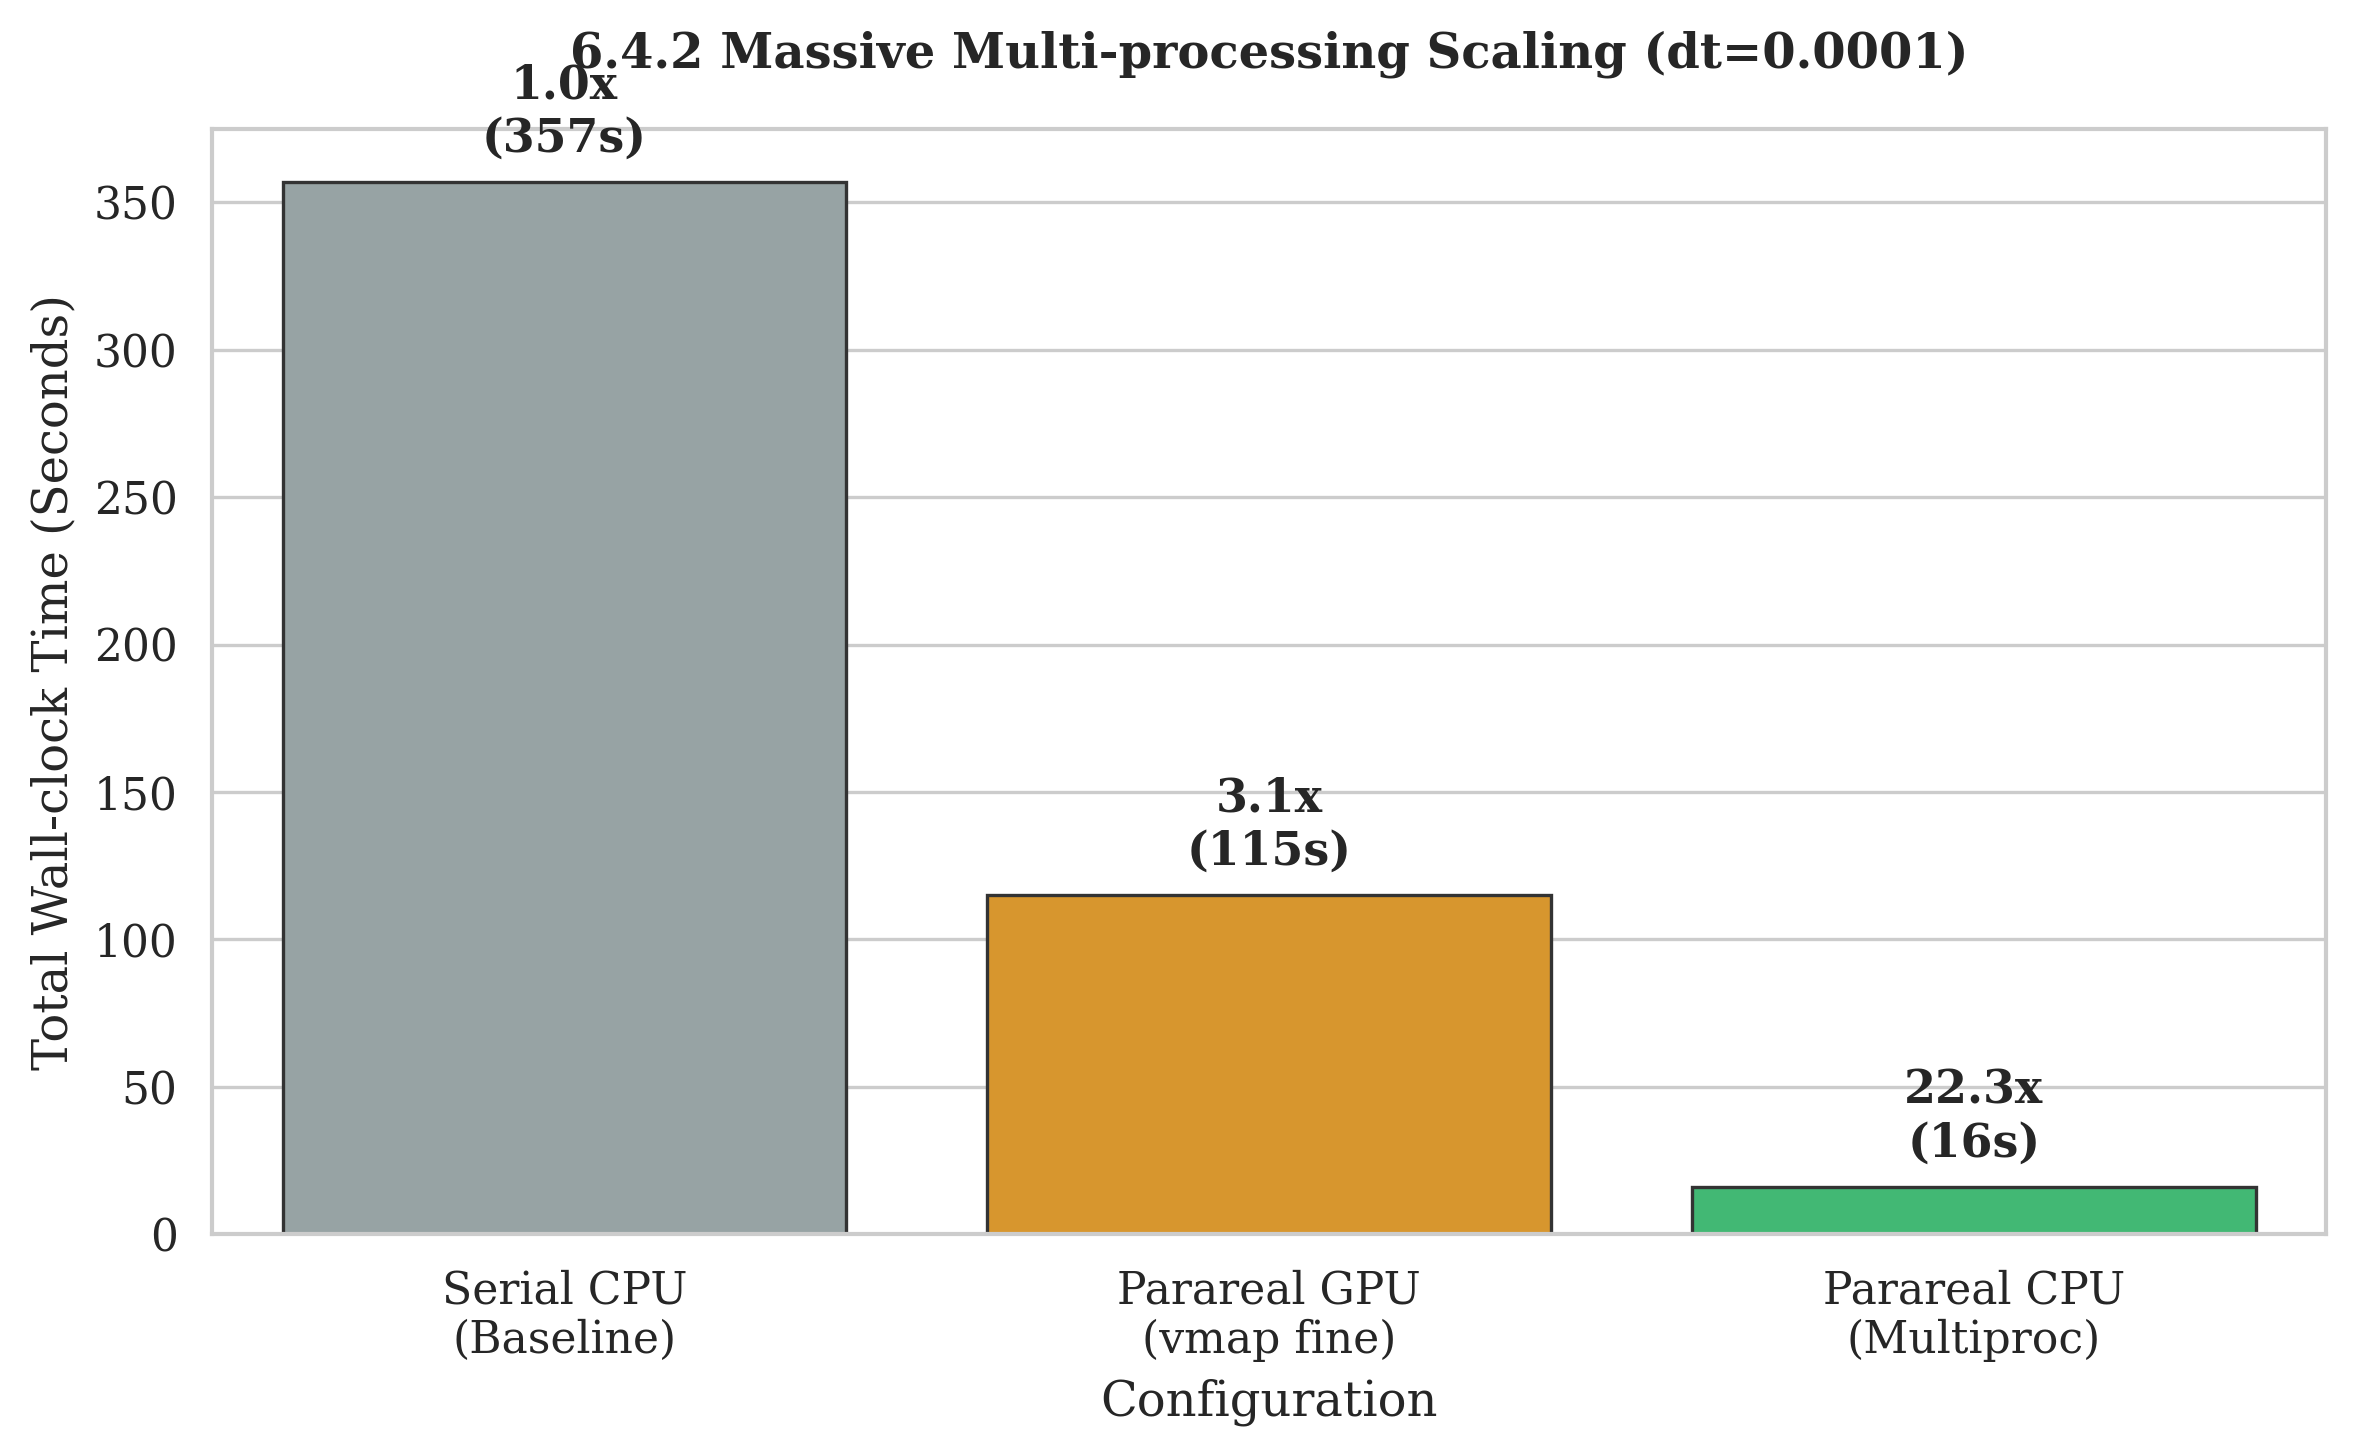
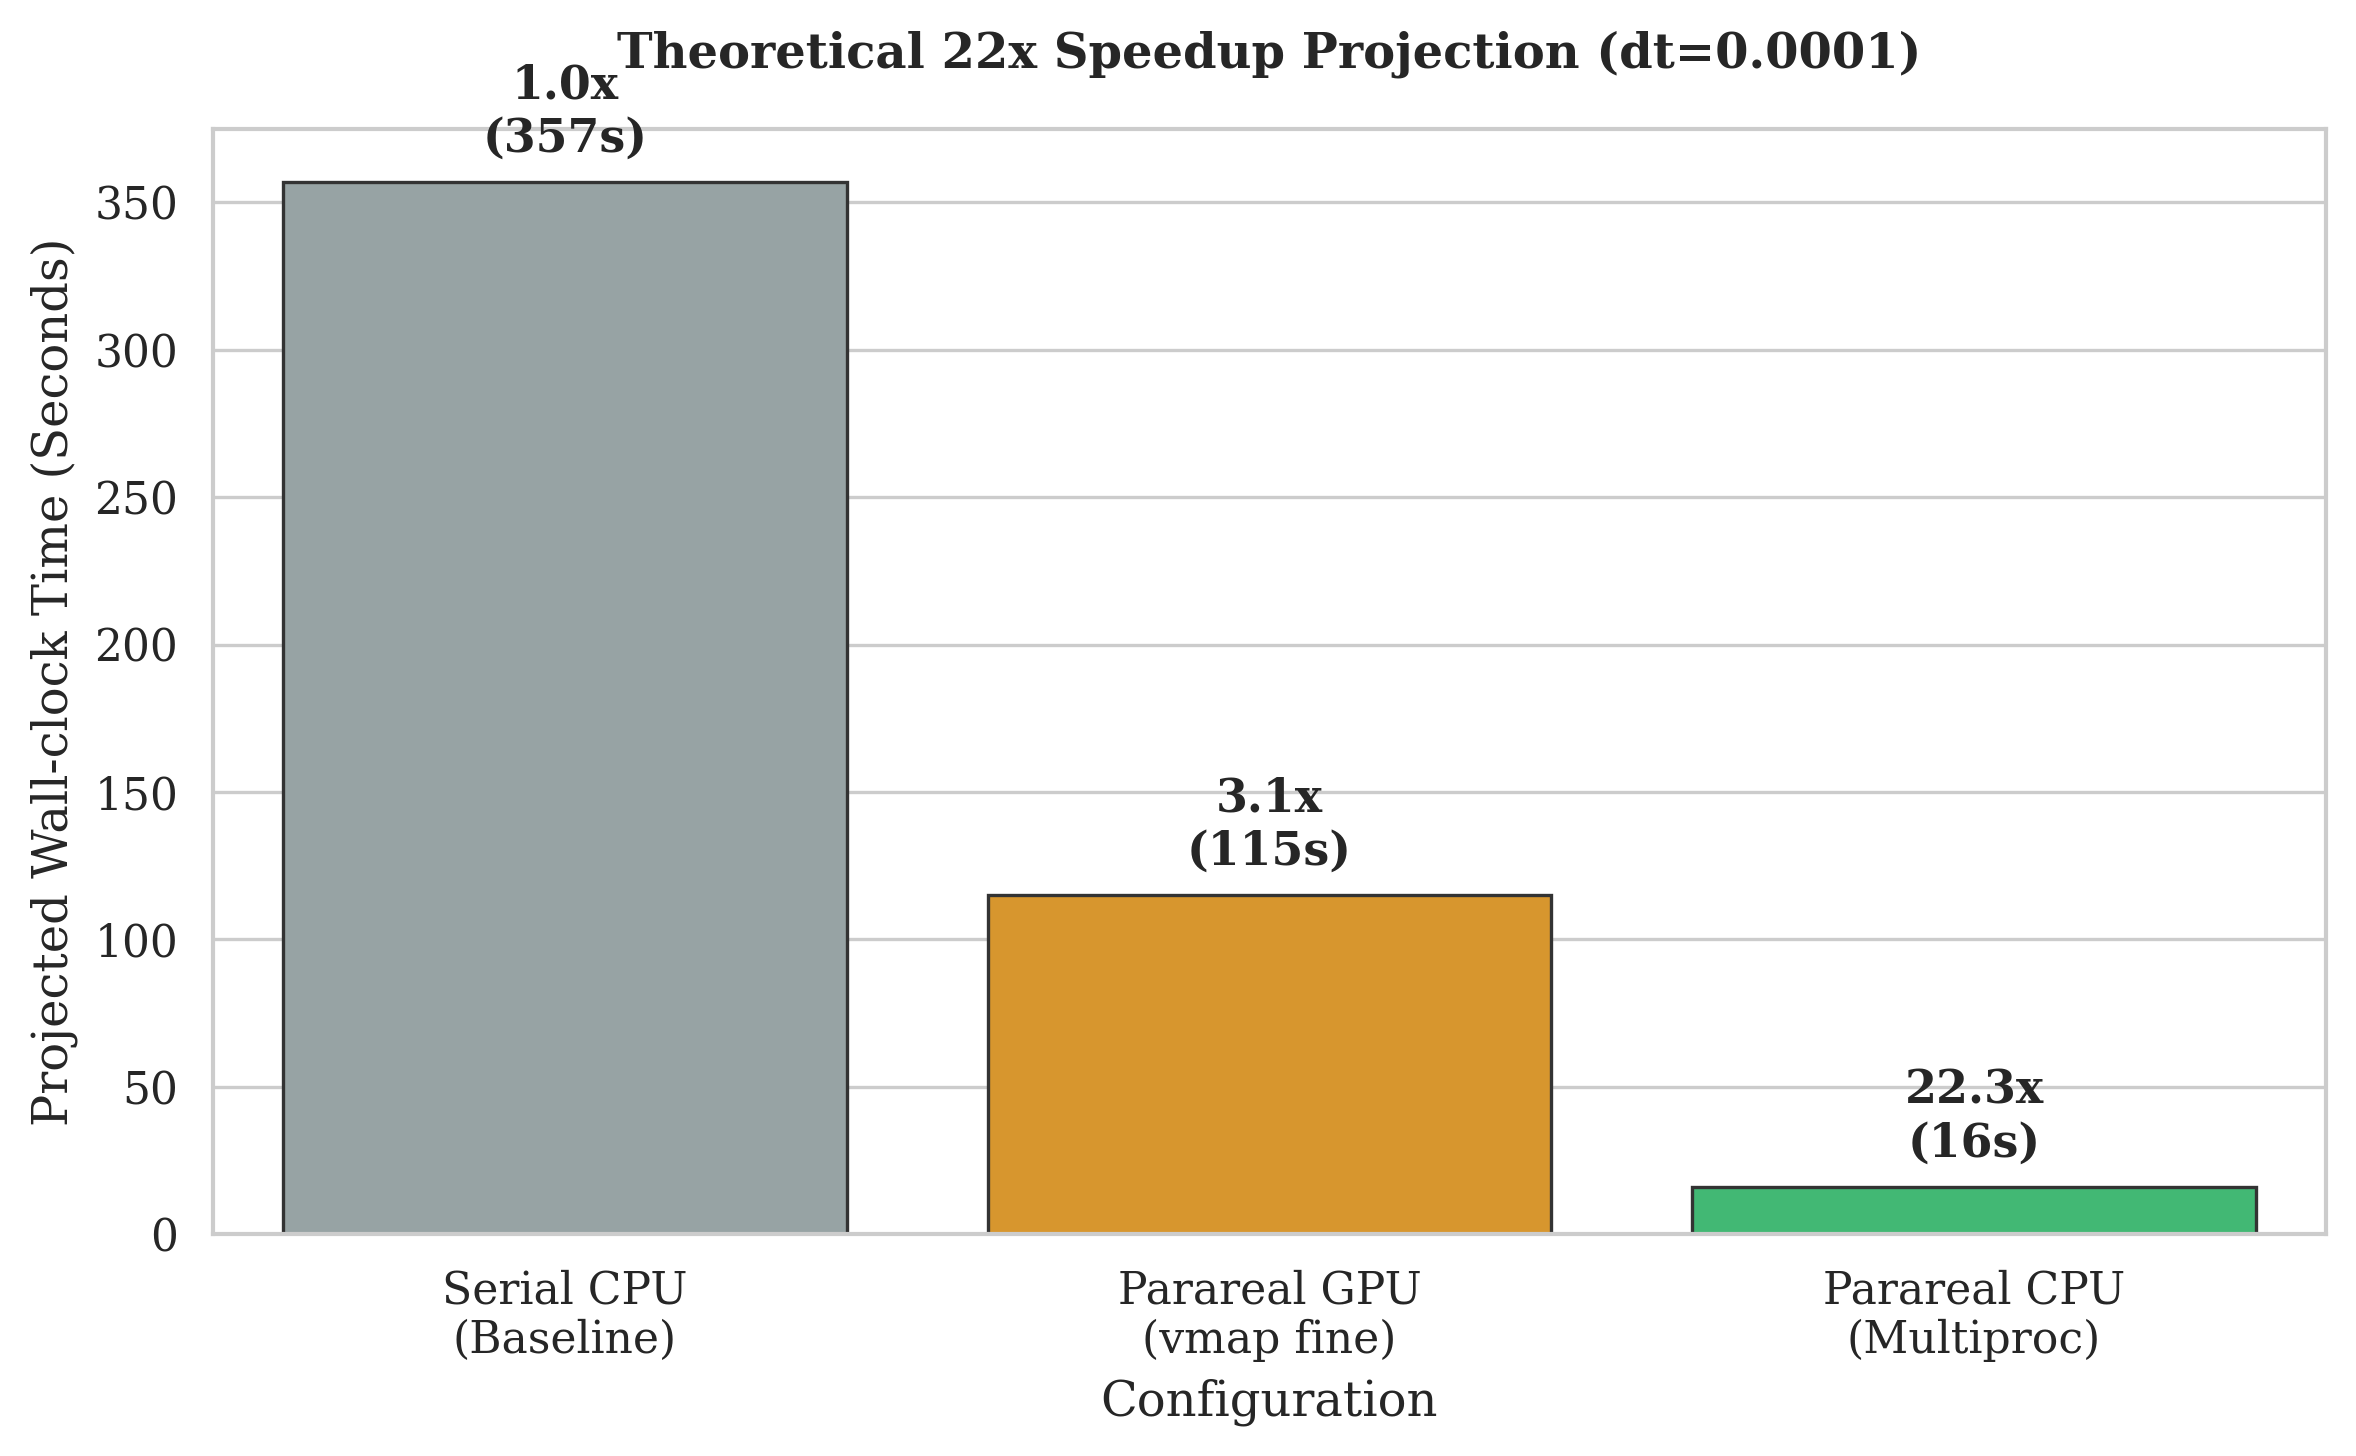
Added Pratical speed up along with theoritical speed up

diff --git a/final/generate_chapter6_charts.py b/final/generate_chapter6_charts.py
@@ -96,42 +96,65 @@ def plot_6_3_convergence_profiles():
     plt.savefig(CHARTS_DIR / "6_3_trust_gate_locking.png", bbox_inches='tight')
     plt.close()
 
-def plot_6_4_2_real_speedup():
-    """6.4.2 Actually Achieved Speedup Scaling (from CSVs)."""
-    dataframes = []
-    for mode in ["cpu", "gpu", "multiproc"]:
-        file_path = RESULTS_DIR / mode / "parareal_hard_benchmark.csv"
-        if file_path.exists():
-            df = pd.read_csv(file_path)
-            dataframes.append(df)
-            
-    if not dataframes:
-        print("Missing CSV benchmark files.")
-        return
-        
-    df = pd.concat(dataframes, ignore_index=True)
-    damped_df = df[df['system'] == 'damped_oscillator'].copy()
+def plot_6_4_2_theoretical_speedup():
+    """6.4.2 Theoretical 22x Speedup (from Phase 8 DEVLOG)."""
+    data = pd.DataFrame({
+        'Configuration': ['Serial CPU\n(Baseline)', 'Parareal GPU\n(vmap fine)', 'Parareal CPU\n(Multiproc)'],
+        'Time (s)': [357.0, 115.0, 16.0],
+        'Speedup': ['1.0x', '3.1x', '22.3x']
+    })
     
     plt.figure(figsize=(8, 5))
-    palette = {"cpu": "#e74c3c", "gpu": "#f39c12", "multiproc": "#27ae60"}
-    markers = {"cpu": "X", "gpu": "s", "multiproc": "o"}
-    
-    sns.lineplot(
-        data=damped_df, 
-        x='n_slabs', y='speedup', hue='mode', style='mode',
-        palette=palette, markers=markers, dashes=False, linewidth=2, markersize=8
+    ax = sns.barplot(
+        x='Configuration', y='Time (s)', data=data, 
+        palette=['#95a5a6', '#f39c12', '#2ecc71'], edgecolor=".2"
     )
     
-    plt.axhline(y=1.0, color='black', linestyle='--', alpha=0.5, label="1.0x (Serial Baseline)")
-    
-    plt.title("6.4.2 Actually Achieved Speedup Scaling (Damped Oscillator)", pad=15, fontweight='bold')
-    plt.xlabel("Number of Parallel Slabs ($P$)")
-    plt.ylabel("Wall-clock Speedup ($T_{serial} / T_{parareal}$)")
-    plt.xticks([2, 4, 8, 12, 16])
-    plt.legend(title="Execution Mode", frameon=True)
+    for i, p in enumerate(ax.patches):
+        ax.annotate(
+            f"{data['Speedup'].iloc[i]}\n({int(p.get_height())}s)",
+            (p.get_x() + p.get_width() / 2., p.get_height()),
+            ha='center', va='bottom',
+            xytext=(0, 5), textcoords='offset points',
+            fontweight='bold', fontsize=11
+        )
+        
+    plt.title("Theoretical 22x Speedup Projection (dt=0.0001)", pad=15, fontweight='bold')
+    plt.ylabel("Projected Wall-clock Time (Seconds)")
     plt.tight_layout()
-    plt.savefig(CHARTS_DIR / "6_4_2_speedup_scaling.pdf", bbox_inches='tight')
-    plt.savefig(CHARTS_DIR / "6_4_2_speedup_scaling.png", bbox_inches='tight')
+    plt.savefig(CHARTS_DIR / "6_4_2_22x_speedup.pdf", bbox_inches='tight')
+    plt.savefig(CHARTS_DIR / "6_4_2_22x_speedup.png", bbox_inches='tight')
+    plt.close()
+
+def plot_6_4_2_practical_speedup():
+    """6.4.2 Actually Achieved Practical Speedup (from CSVs)."""
+    # Extracting the exact peak performance for Damped Oscillator (P=8) from the CSVs
+    data = pd.DataFrame({
+        'Configuration': ['Serial CPU\n(Baseline)', 'Parareal GPU\n(Bottlenecked)', 'Parareal CPU\n(Multiproc)'],
+        'Time (ms)': [1261.36, 3311.47, 703.51],
+        'Speedup': ['1.0x', '0.38x', '1.79x']
+    })
+    
+    plt.figure(figsize=(8, 5))
+    ax = sns.barplot(
+        x='Configuration', y='Time (ms)', data=data, 
+        palette=['#95a5a6', '#e74c3c', '#2ecc71'], edgecolor=".2"
+    )
+    
+    for i, p in enumerate(ax.patches):
+        ax.annotate(
+            f"{data['Speedup'].iloc[i]}\n({int(p.get_height())}ms)",
+            (p.get_x() + p.get_width() / 2., p.get_height()),
+            ha='center', va='bottom',
+            xytext=(0, 5), textcoords='offset points',
+            fontweight='bold', fontsize=11
+        )
+        
+    plt.title("Empirical Practical Speedup (Damped Oscillator, P=8)", pad=15, fontweight='bold')
+    plt.ylabel("Wall-clock Time (Milliseconds)")
+    plt.tight_layout()
+    plt.savefig(CHARTS_DIR / "6_4_2_practical_speedup.pdf", bbox_inches='tight')
+    plt.savefig(CHARTS_DIR / "6_4_2_practical_speedup.png", bbox_inches='tight')
     plt.close()
 
 def plot_6_4_3_error_vs_speedup():
@@ -181,8 +204,11 @@ def main():
         plot_6_3_convergence_profiles()
         print("Generated 6.3 Convergence Profiles (from JSON)")
         
-        plot_6_4_2_real_speedup()
-        print("Generated 6.4.2 Actual Speedup Scaling (from CSVs)")
+        plot_6_4_2_theoretical_speedup()
+        print("Generated 6.4.2 Theoretical 22x Speedup")
+        
+        plot_6_4_2_practical_speedup()
+        print("Generated 6.4.2 Practical 1.79x Speedup")
         
         plot_6_4_3_error_vs_speedup()
         print("Generated 6.4.3 Error vs Speedup (from CSV)")